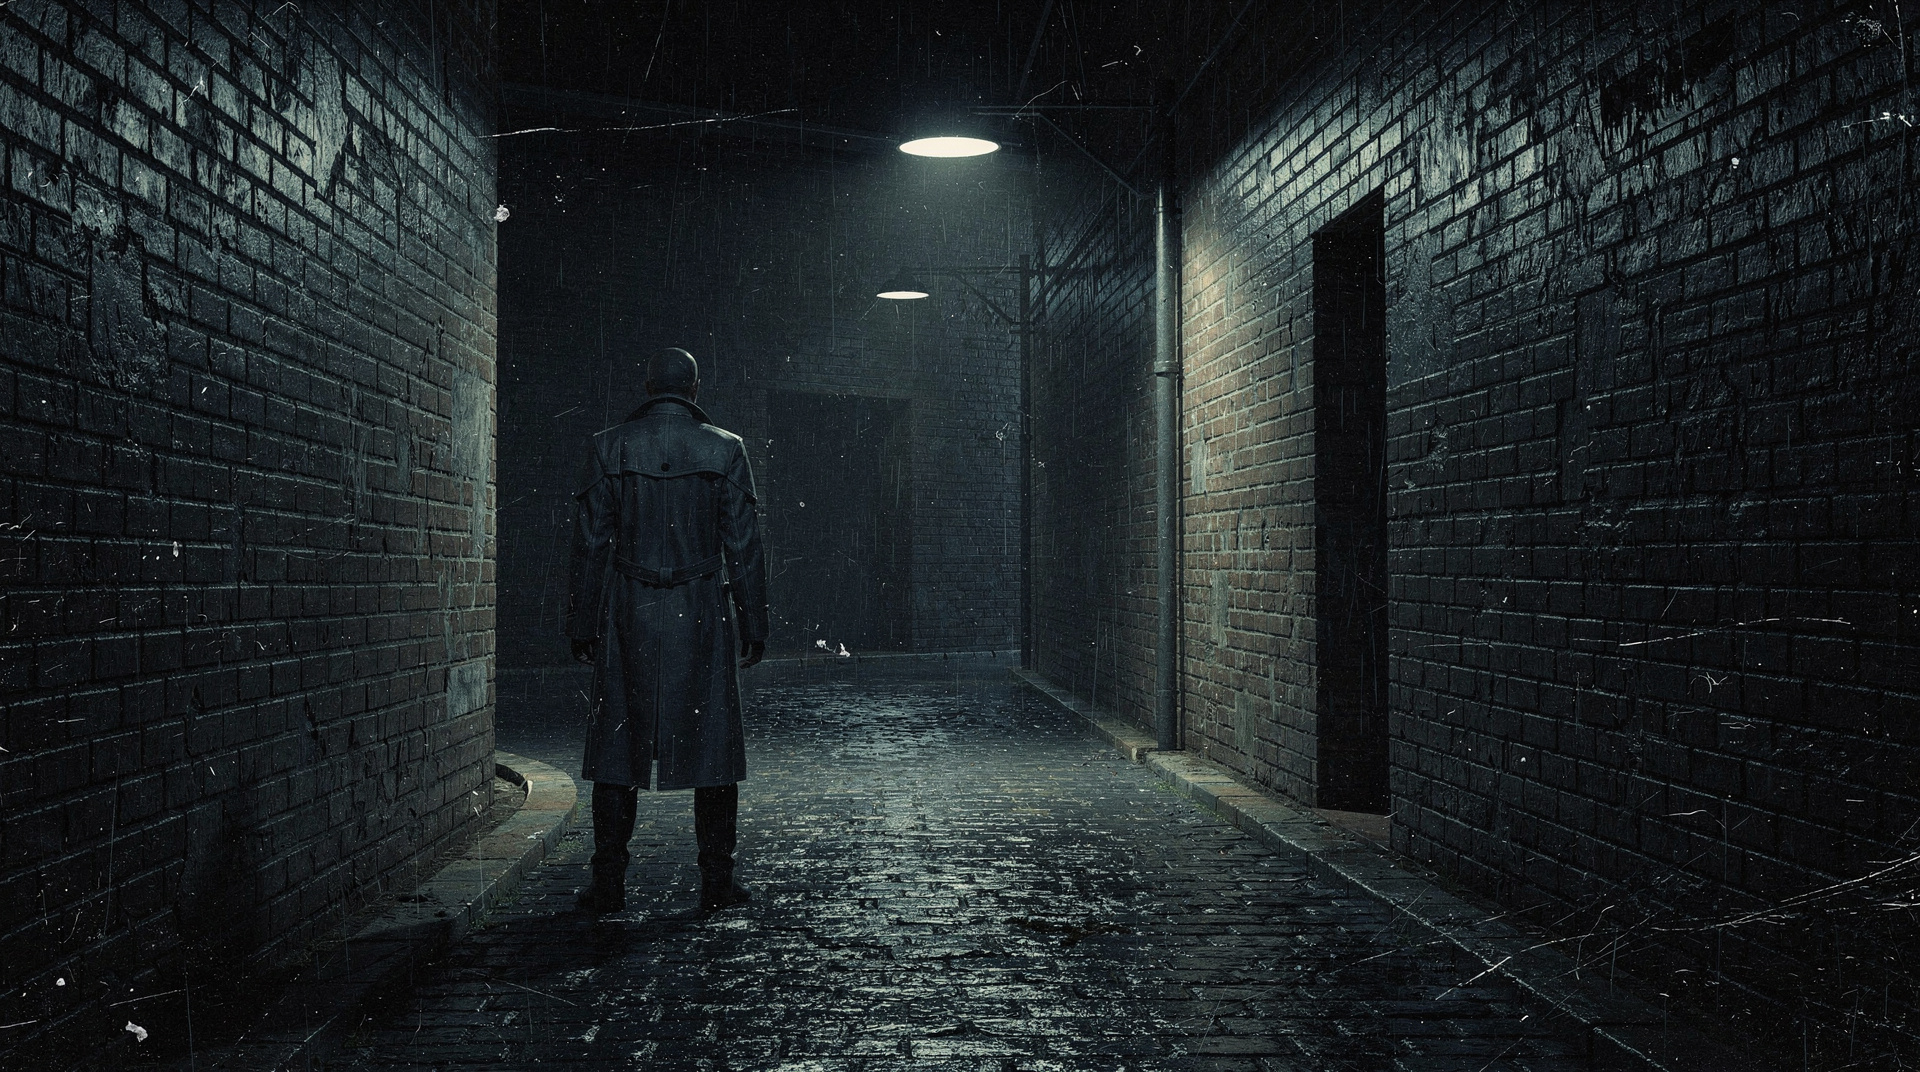
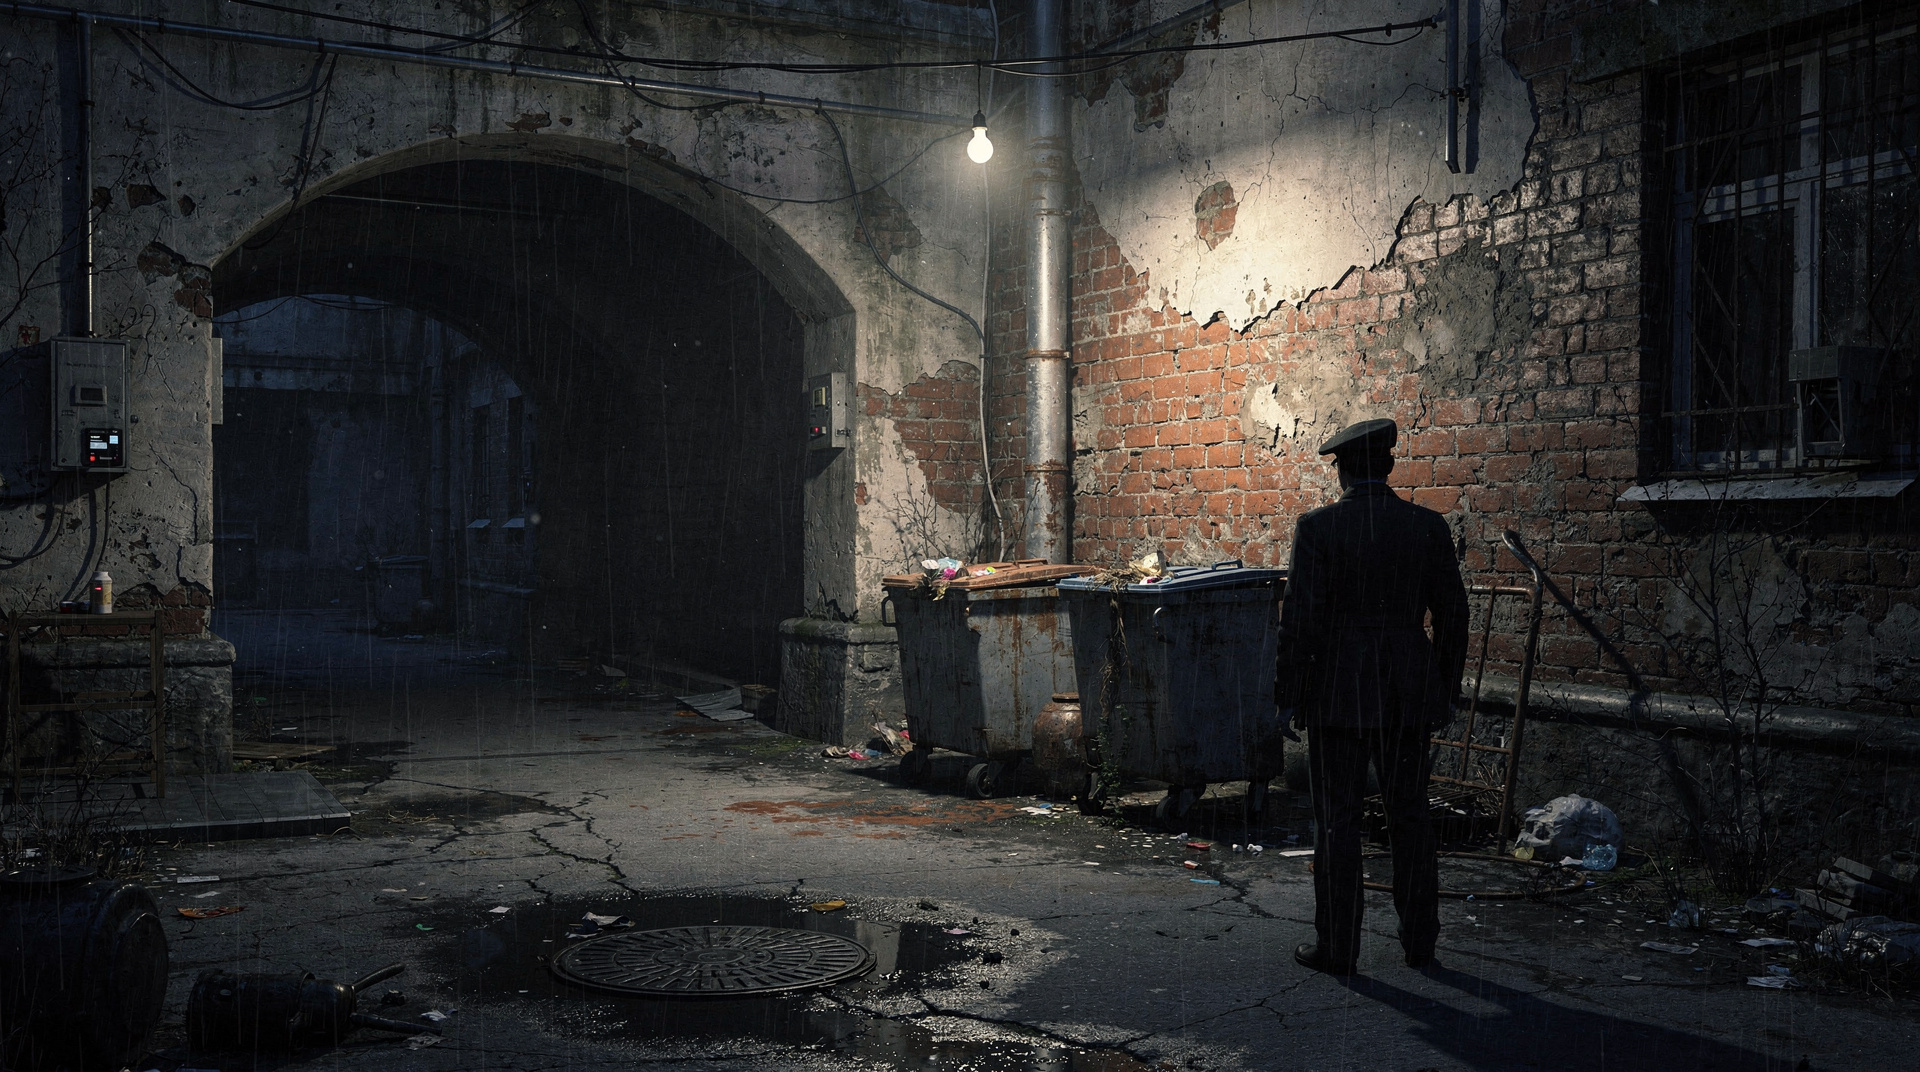
Пролог S1: подворотня перерисована по-советски (облупленный кирпич, арка во двор, труба, лампочка на проводе, контейнеры, лужа, люк, силуэты в кепках); обновлена проба финала flux-2; аниматик пересобран (1:27.6). Лист review_57.

diff --git a/_prolog_frames.py b/_prolog_frames.py
@@ -74,20 +74,93 @@ def save_ov(im, name):
     print("ovl  ", os.path.relpath(p, HERE))
 
 
-# ================================================================ S1 подворотня
-im = new_base((16, 20, 34), (6, 8, 16))
+# ================================================================ S1 подворотня (СОВЕТСКАЯ)
+# Правка заказчика 2026-10-11: «слишком западная подворотня; советская — другая, менее аккуратная».
+# Советский двор-подворотня: облупленная кирпичная стена, ржавая водосточная труба, арка во двор,
+# тусклая лампочка на проводе, мусорные контейнеры, лужа и люк на асфальте.
+im = new_base((14, 17, 28), (5, 7, 14))
 d = ImageDraw.Draw(im)
-for side, x0 in (("L", 0), ("R", FW - 520)):
-    d.rectangle([x0, 0, x0 + 520, FH], fill=(24, 27, 42))
-    for by in range(60, FH, 46):
-        for bx in range(x0 + ((by // 46) % 2) * 55, x0 + 520, 110):
-            d.rectangle([bx + 3, by + 3, bx + 100, by + 38], fill=(30, 34, 52), outline=(20, 23, 36))
-d.ellipse([820, 980, 1600, 1180], fill=(24, 30, 46))
-person(d, 1180, 700, 300, (7, 8, 14))
-person(d, 1250, 720, 270, (9, 10, 16))
-for _ in range(220):
+
+# --- левая кирпичная стена, облупленная
+d.rectangle([0, 0, 560, 1120], fill=(26, 28, 42))
+for by in range(30, 1120, 44):
+    for bx in range(((by // 44) % 2) * 52, 560, 104):
+        d.rectangle([bx + 2, by + 2, bx + 98, by + 38], fill=(31, 34, 50), outline=(19, 21, 34))
+for _ in range(28):
+    x = random.randint(10, 470); y = random.randint(40, 1050)
+    d.rectangle([x, y, x + random.randint(30, 120), y + random.randint(20, 70)],
+                fill=random.choice([(38, 40, 56), (16, 18, 28), (24, 26, 40)]))
+for _ in range(12):
+    x = random.randint(20, 520)
+    d.line([(x, 60), (x + random.randint(-10, 10), random.randint(400, 900))], fill=(15, 17, 26), width=2)
+
+# --- дальняя стена двора (глубь)
+d.rectangle([560, 360, 1400, 1120], fill=(20, 22, 34))
+for _ in range(26):
+    x = random.randint(580, 1340); y = random.randint(390, 1080)
+    d.rectangle([x, y, x + random.randint(20, 90), y + random.randint(16, 52)],
+                fill=random.choice([(16, 18, 28), (26, 28, 42)]))
+d.rectangle([980, 660, 1120, 800], fill=(13, 15, 24), outline=(42, 44, 60), width=4)
+d.rectangle([998, 678, 1102, 782], fill=(46, 44, 36))
+
+# --- здание справа с АРКОЙ во двор
+d.rectangle([1400, 280, FW, 1120], fill=(23, 25, 38))
+for by in range(300, 1120, 46):
+    for bx in range(1400 + ((by // 46) % 2) * 56, FW, 112):
+        d.rectangle([bx + 2, by + 2, bx + 106, by + 40], fill=(28, 31, 46), outline=(18, 20, 32))
+d.pieslice([1520, 380, 2120, 760], 180, 360, fill=(58, 60, 78))
+d.rectangle([1520, 570, 2120, 1120], fill=(58, 60, 78))
+d.pieslice([1570, 430, 2070, 720], 180, 360, fill=(30, 36, 54))
+d.rectangle([1570, 575, 2070, 1120], fill=(30, 36, 54))
+d.ellipse([1740, 700, 1880, 810], fill=(70, 74, 96))
+d.ellipse([1760, 715, 1780, 735], fill=(152, 142, 112))
+for x in (1660, 1720, 1900, 1960):
+    person(d, x, 980, 150, (16, 18, 28))
+
+# --- асфальт, лужа, люк
+d.rectangle([0, 1120, FW, FH], fill=(18, 20, 30))
+for _ in range(18):
+    x = random.randint(0, FW); y = random.randint(1130, 1340)
+    d.line([(x, y), (x + random.randint(-60, 60), y + random.randint(-14, 14))], fill=(38, 42, 56), width=2)
+d.ellipse([700, 1180, 1560, 1330], fill=(24, 30, 44))
+d.ellipse([820, 1210, 1180, 1270], fill=(38, 46, 64))
+d.ellipse([1660, 1180, 1860, 1300], fill=(30, 32, 44), outline=(52, 56, 72), width=4)
+
+# --- ржавая водосточная труба
+d.rectangle([472, 0, 502, 1120], fill=(56, 50, 48))
+for yy in range(120, 1100, 220):
+    d.rectangle([466, yy, 508, yy + 16], fill=(40, 36, 36))
+for _ in range(20):
+    y = random.randint(40, 1080)
+    d.line([(480, y), (480, y + random.randint(20, 70))], fill=(92, 62, 44), width=2)
+
+# --- мусорные контейнеры
+for cx, col in ((1180, (44, 50, 60)), (1360, (40, 46, 56))):
+    d.rectangle([cx, 990, cx + 200, 1118], fill=col)
+    d.rectangle([cx - 6, 970, cx + 206, 1000], fill=(56, 62, 74))
+d.rectangle([1210, 1010, 1250, 1040], fill=(70, 76, 90))
+
+# --- лампочка на проводе
+x0, y0, x1, y1 = 560, 150, 1400, 200
+for i in range(0, 61):
+    t = i / 60
+    x = x0 + (x1 - x0) * t
+    y = y0 + (y1 - y0) * t + 90 * (4 * t * (1 - t))
+    d.ellipse([x - 2, y - 2, x + 2, y + 2], fill=(60, 62, 78))
+bx = 980; by = y0 + (y1 - y0) * 0.5 + 90
+d.line([(bx, by), (bx, by + 34)], fill=(60, 62, 78), width=3)
+d.ellipse([bx - 16, by + 30, bx + 16, by + 66], fill=(210, 200, 160))
+d.ellipse([bx - 62, by - 30, bx + 62, by + 98], fill=(60, 56, 42))
+
+# --- силуэты у стены (с кепками)
+for px, ph, col in ((980, 320, (8, 9, 15)), (1080, 286, (10, 11, 17))):
+    person(d, px, 760, ph, col)
+    d.rectangle([px - ph * 0.20, 760 + ph * 0.02, px + ph * 0.20, 760 + ph * 0.10], fill=col)
+
+# --- редкая морось
+for _ in range(120):
     x = random.randint(0, FW); y = random.randint(0, FH)
-    d.line([(x, y), (x - 6, y + 40)], fill=(60, 70, 95), width=2)
+    d.line([(x, y), (x - 5, y + 34)], fill=(52, 60, 80), width=2)
 chronicle_tag(d, "ХРОНИКА · 2061")
 save_base(im, "s1_base.png")
 

diff --git a/_prolog_s1_sheet.py b/_prolog_s1_sheet.py
@@ -1,0 +1,48 @@
+# -*- coding: utf-8 -*-
+"""Лист-сравнение S1: советский мок (аниматик) <-> новая проба финала flux-2.
+Выход: assets/review/review_57_prolog_s1.png
+"""
+import os
+from PIL import Image, ImageDraw, ImageFont
+
+HERE = os.path.dirname(os.path.abspath(__file__))
+REV = os.path.join(HERE, "assets", "review")
+MOCK = os.path.join(HERE, "assets", "mock", "prolog", "s1_base.png")
+FLUX = os.path.join(HERE, "assets", "gen", "prolog_s1_cin_0.jpg")
+
+FB = "/usr/share/fonts/truetype/dejavu/DejaVuSans-Bold.ttf"
+FR = "/usr/share/fonts/truetype/dejavu/DejaVuSans.ttf"
+f = lambda p, s: ImageFont.truetype(p, s)
+
+W = 2020
+PW = (W - 3 * 40) // 2           # panel width
+PH = int(PW * 9 / 16)
+TOP = 150
+BOT = 108
+canvas = Image.new("RGB", (W, TOP + PH + BOT), (18, 18, 22))
+d = ImageDraw.Draw(canvas)
+
+d.text((40, 34), "S1 · подворотня — советская перерисовка", font=f(FB, 54), fill=(240, 240, 245))
+d.text((40, 100), "слева — мок аниматика (бесплатно, ~0 ₽)   |   справа — проба финала flux-2 (4.74 ₽)",
+       font=f(FR, 26), fill=(160, 160, 172))
+
+
+def panel(x0, path, label):
+    im = Image.open(path).convert("RGB").resize((PW, PH), Image.LANCZOS)
+    y0 = TOP + 20
+    d.rectangle([x0 - 8, y0 - 8, x0 + PW + 8, y0 + PH + 8], outline=(70, 70, 84), width=3)
+    canvas.paste(im, (x0, y0))
+    d.text((x0, y0 + PH + 16), label, font=f(FB, 32), fill=(225, 225, 232))
+
+
+panel(40, MOCK, "АНИМАТИК · мок")
+panel(40 + PW + 40, FLUX, "ФИНАЛ · flux-2 (проба)")
+
+d.text((40, TOP + PH + 66),
+       "Правка Ивана: «слишком западная подворотня; советская — другая, менее аккуратная» — "
+       "облупленный кирпич, арка во двор, труба, лампочка на проводе, контейнеры, лужа, люк, силуэты в кепках.",
+       font=f(FR, 24), fill=(150, 150, 162))
+
+out = os.path.join(REV, "review_57_prolog_s1.png")
+canvas.save(out)
+print("OK", os.path.relpath(out, HERE), canvas.size)

diff --git a/_prolog_s1_probe.py b/_prolog_s1_probe.py
@@ -1,0 +1,26 @@
+# -*- coding: utf-8 -*-
+"""Перегенерация ТОЛЬКО пробы S1 (советский двор) — flux-2. ~4.74 ₽."""
+import os, sys
+HERE = os.path.dirname(os.path.abspath(__file__))
+sys.path.insert(0, HERE)
+import pv
+
+CHRON = ("ретро-футуристическая документальная кинохроника альтернативного 2061 года, "
+         "кадр из фильма, 16:9, киноплёнка с зерном и лёгкими царапинами, приглушённая "
+         "холодная палитра, живописный фотореализм. НЕ мультфильм, НЕ аниме, НЕ 3D-рендер, "
+         "НИКАКОГО текста, надписей, букв, цифр, логотипов и водяных знаков.")
+
+name = "prolog_s1_cin"
+core = ("Советская глухая подворотня глухой ночью, захламлённый двор: облупленная кирпичная "
+        "стена с осыпавшейся штукатуркой, тёмная арка во двор, ржавая водосточная труба, "
+        "голая лампочка на проводе тускло светит, покосившиеся мусорные контейнеры, лужа и "
+        "чугунный люк на асфальте, одинокий силуэт человека в кепке у стены. Неухоженно, менее "
+        "аккуратно, чем западный двор, атмосфера тайны, глубокая тень. Холодная сине-серая палитра.")
+prompt = core + "\n\nСТИЛЬ: " + CHRON
+opts = {"aspect_ratio": "16:9", "resolution": "2K"}
+q = pv.price("flux-2", prompt, opts)
+print(f"[{name}] quote={q.get('priceRub')} ₽")
+files, st = pv.generate_to_files("flux-2", prompt, opts, outdir="assets/gen",
+                                 name=name, max_price_rub=12)
+print(f"  OK -> {os.path.relpath(files[0], HERE)}  price={st.get('priceRub')}")
+print(f"  balance={pv.balance()}")

diff --git a/_prolog_reveal_sheet.py b/_prolog_reveal_sheet.py
@@ -1,0 +1,36 @@
+# -*- coding: utf-8 -*-
+"""Лист «до/после появления по фразе»."""
+import os
+from PIL import Image, ImageDraw, ImageFont
+HERE = os.path.dirname(os.path.abspath(__file__))
+D = os.path.join(HERE, "assets", "review", "prolog_draft")
+OUT = os.path.join(HERE, "assets", "review", "review_56_prolog_reveal.png")
+G = "/usr/share/fonts/opentype/urw-base35/URWGothic-Demi.otf"
+L = "/usr/share/fonts/truetype/lato/Lato-Bold.ttf"
+PAIRS = [
+    ("v3_t35.0.png", "v3_t37.0.png", "S3 · до фразы «Марс — дело общее» → после"),
+    ("v3_t66.0.png", "v3_t69.0.png", "S5 · до «Верховного Совета» → после"),
+]
+CW, CH = 900, 506
+M, H, C = 18, 64, 40
+rows = []
+canvas = None
+imgs = []
+for a, b, cap in PAIRS:
+    ia = Image.open(os.path.join(D, a)).resize((CW, CH), Image.LANCZOS)
+    ib = Image.open(os.path.join(D, b)).resize((CW, CH), Image.LANCZOS)
+    imgs.append((ia, ib, cap))
+W = 2 * CW + 3 * M
+Hh = H + len(imgs) * (CH + C + M)
+canvas = Image.new("RGB", (W, Hh), (12, 13, 18))
+d = ImageDraw.Draw(canvas)
+d.text((M, 18), "«ЗАРЯНКА» — пролог v3: элементы появляются ПО ФРАЗЕ", font=ImageFont.truetype(G, 30), fill=(226, 186, 104))
+y = H
+for ia, ib, cap in imgs:
+    canvas.paste(ia, (M, y)); canvas.paste(ib, (2 * M + CW, y))
+    d.rectangle([M, y, M + CW, y + CH], outline=(60, 64, 80), width=2)
+    d.rectangle([2 * M + CW, y, 2 * M + 2 * CW, y + CH], outline=(200, 160, 90), width=2)
+    d.text((M, y + CH + 8), cap, font=ImageFont.truetype(L, 26), fill=(235, 232, 226))
+    y += CH + C + M
+canvas.save(OUT)
+print("saved", os.path.relpath(OUT, HERE), canvas.size)

diff --git a/_prolog_final_frames.py b/_prolog_final_frames.py
@@ -19,10 +19,11 @@ ANIME = ("стиль японской визуальной новеллы (galge
 
 JOBS = [
     ("prolog_s1_cin",
-     "Тёмная глухая подворотня между кирпичными стенами глухой ночью: мокрая брусчатка "
-     "отражает тусклый свет одинокого фонаря, моросит дождь, у стены стоит и отвернулся "
-     "одинокий силуэт человека в плаще. Пусто, тревожно, атмосфера тайны, глубокая тень. "
-     "Холодная сине-серая палитра.",
+     "Советская глухая подворотня глухой ночью, захламлённый двор: облупленная кирпичная "
+     "стена с осыпавшейся штукатуркой, тёмная арка во двор, ржавая водосточная труба, "
+     "голая лампочка на проводе тускло светит, покосившиеся мусорные контейнеры, лужа и "
+     "чугунный люк на асфальте, одинокий силуэт человека в кепке у стены. Неухоженно, менее "
+     "аккуратно, чем западный двор, атмосфера тайны, глубокая тень. Холодная сине-серая палитра.",
      CHRON),
     ("prolog_s2_cin",
      "Звёздный городок поздним вечером: высокая белая многоступенчатая ракета с красным "

diff --git a/_gh_push20.py b/_gh_push20.py
@@ -1,0 +1,28 @@
+# -*- coding: utf-8 -*-
+"""Пуш: пролог S1 — советская подворотня (мок + новая проба flux) + пересобранный аниматик."""
+import os, subprocess
+
+HERE = os.path.dirname(os.path.abspath(__file__))
+KEY = "/home/ivan/.nanobot/workspace/.ssh/github_ed25519"
+KH = "/home/ivan/.nanobot/workspace/.ssh/known_hosts"
+ENV = dict(os.environ, GIT_SSH_COMMAND=(
+    f"ssh -i {KEY} -o IdentitiesOnly=yes -o UserKnownHostsFile={KH} "
+    f"-o StrictHostKeyChecking=no"))
+
+
+def sh(cmd, timeout=900):
+    p = subprocess.run(cmd, shell=True, cwd=HERE, capture_output=True, text=True,
+                       timeout=timeout, env=ENV)
+    return p.returncode, (p.stdout or "").strip(), (p.stderr or "").strip()
+
+
+print("add rc:", sh("git add -A")[0])
+print("stat:", sh("git diff --cached --stat | tail -5")[1])
+msg = ("Пролог S1: подворотня перерисована по-советски (облупленный кирпич, арка во двор, "
+       "труба, лампочка на проводе, контейнеры, лужа, люк, силуэты в кепках); обновлена проба "
+       "финала flux-2; аниматик пересобран (1:27.6). Лист review_57.")
+rc, out, err = sh(f'git commit -m "{msg}" || true')
+print("commit:", (out or err)[:400])
+rc, out, err = sh("git push origin rebuild")
+print("push rc=", rc, out[-200:], "ERR:", err[-200:])
+print("HEAD:", sh("git log --oneline -1")[1])
